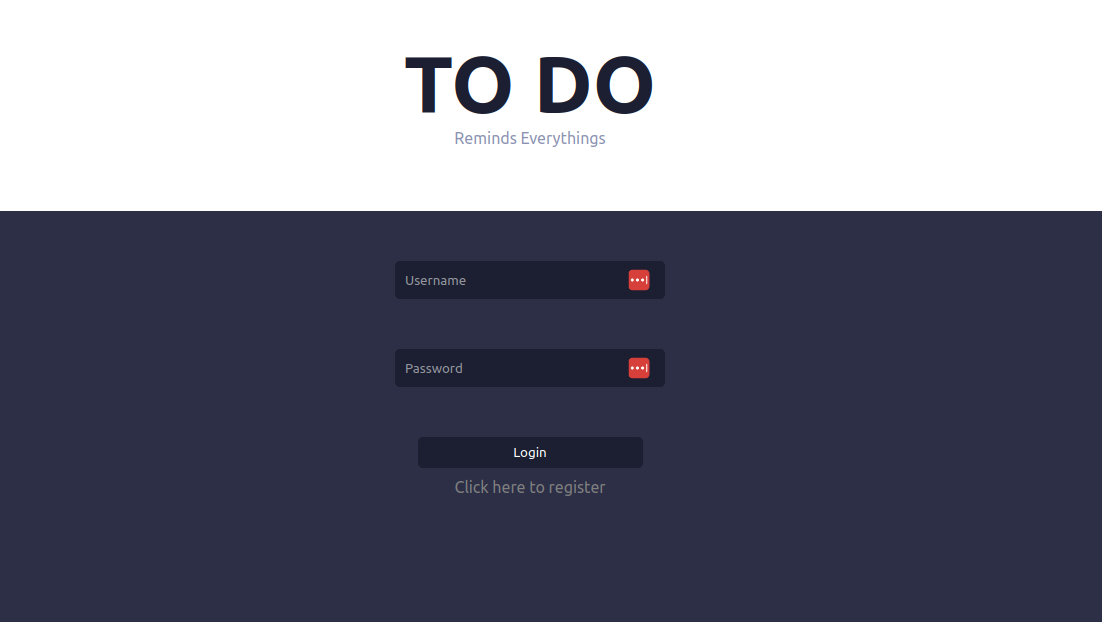
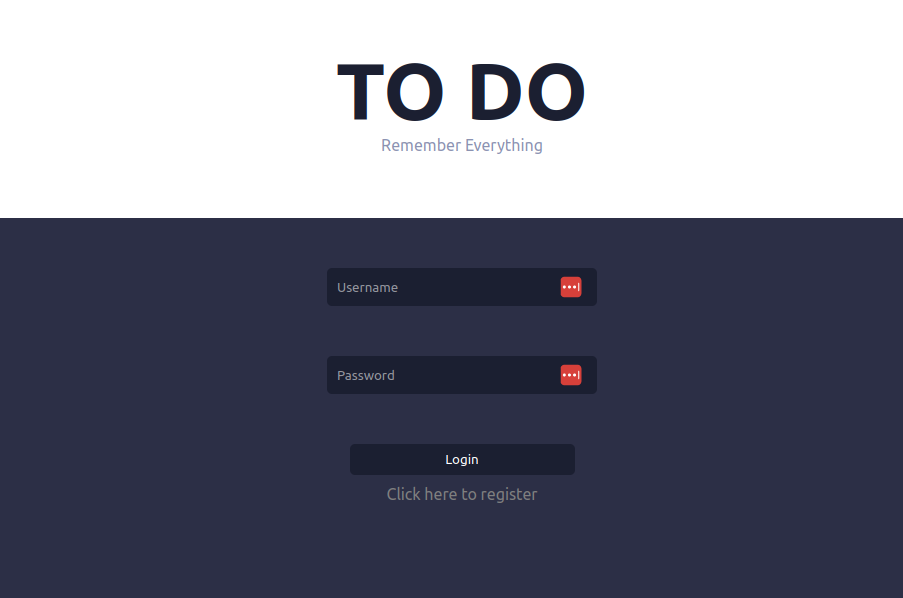
Fix typo

diff --git a/todo-frontend/public/index.html b/todo-frontend/public/index.html
@@ -1,21 +1,19 @@
 <!DOCTYPE html>
 <html lang="en">
-  <head>
-    <meta charset="utf-8" />
-    <link rel="icon" href="%PUBLIC_URL%/favicon.ico" />
-    <meta name="viewport" content="width=device-width, initial-scale=1" />
-    <meta name="theme-color" content="#000000" />
-    <meta
-      name="description"
-      content="Web site created using create-react-app"
-    />
-    <link rel="apple-touch-icon" href="%PUBLIC_URL%/logo192.png" />
-    <!--
+
+<head>
+  <meta charset="utf-8" />
+  <link rel="icon" href="%PUBLIC_URL%/favicon.ico" />
+  <meta name="viewport" content="width=device-width, initial-scale=1" />
+  <meta name="theme-color" content="#000000" />
+  <meta name="description" content="Web site created using create-react-app" />
+  <link rel="apple-touch-icon" href="%PUBLIC_URL%/logo192.png" />
+  <!--
       manifest.json provides metadata used when your web app is installed on a
       user's mobile device or desktop. See https://developers.google.com/web/fundamentals/web-app-manifest/
     -->
-    <link rel="manifest" href="%PUBLIC_URL%/manifest.json" />
-    <!--
+  <link rel="manifest" href="%PUBLIC_URL%/manifest.json" />
+  <!--
       Notice the use of %PUBLIC_URL% in the tags above.
       It will be replaced with the URL of the `public` folder during the build.
       Only files inside the `public` folder can be referenced from the HTML.
@@ -24,12 +22,13 @@
       work correctly both with client-side routing and a non-root public URL.
       Learn how to configure a non-root public URL by running `npm run build`.
     -->
-    <title>React App</title>
-  </head>
-  <body>
-    <noscript>You need to enable JavaScript to run this app.</noscript>
-    <div id="root"></div>
-    <!--
+  <title>TO DO</title>
+</head>
+
+<body>
+  <noscript>You need to enable JavaScript to run this app.</noscript>
+  <div id="root"></div>
+  <!--
       This HTML file is a template.
       If you open it directly in the browser, you will see an empty page.
 
@@ -39,5 +38,6 @@
       To begin the development, run `npm start` or `yarn start`.
       To create a production bundle, use `npm run build` or `yarn build`.
     -->
-  </body>
+</body>
+
 </html>

diff --git a/todo-frontend/src/Login/Header.tsx b/todo-frontend/src/Login/Header.tsx
@@ -4,7 +4,7 @@ function Header() {
     return (
         <div className={styles.container}>
             <h1 className={styles.mainTitle}>to do</h1>
-            <p className={styles.subTitle}>Reminds Everythings</p>
+            <p className={styles.subTitle}>Remember Everything</p>
         </div>
     );
 }
